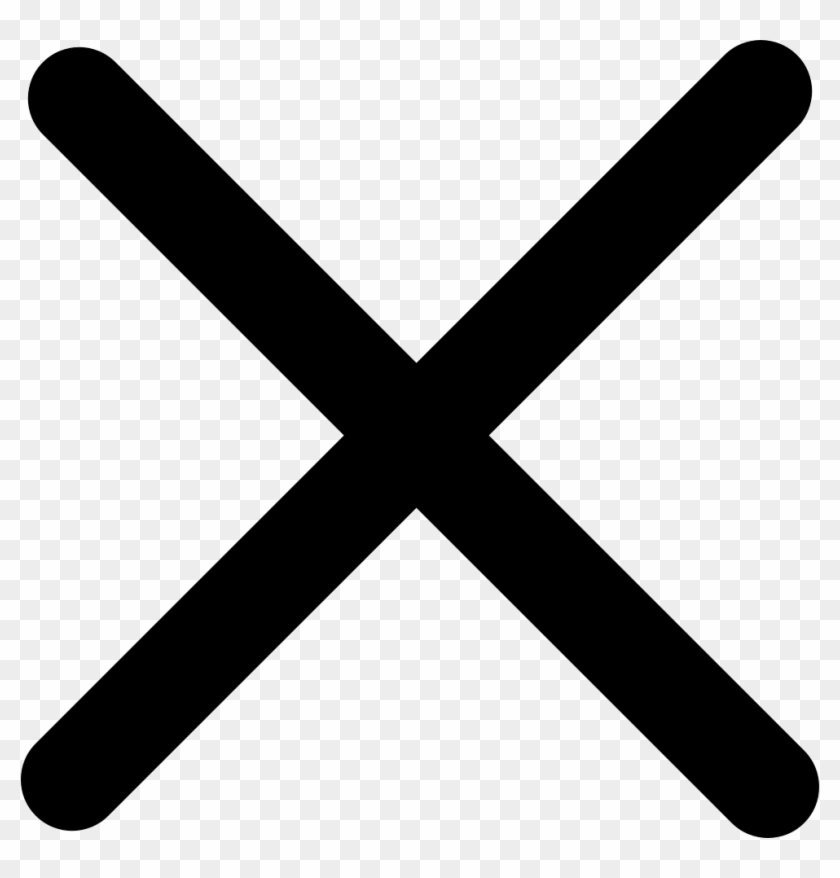
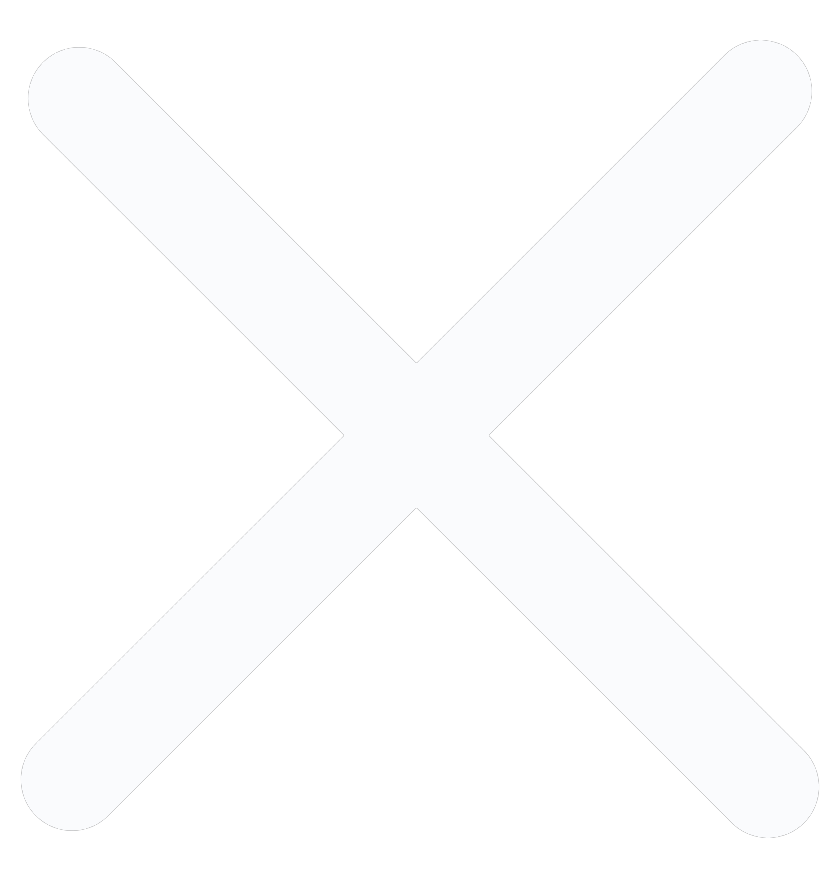
v

Changed region(s): [[0.0, 0.0308, 0.9905, 0.9533]]

diff --git a/stopwatch.py b/stopwatch.py
@@ -2,7 +2,7 @@ import PySimpleGUI as sg
 
 sg.theme('black')
 layout = [
-    [sg.('x.png')],
+    [sg.Text('X')],
     [sg.VPush()],
     [sg.Text('time')],
     [sg.Button('Start'), sg.Button('Lap')],
